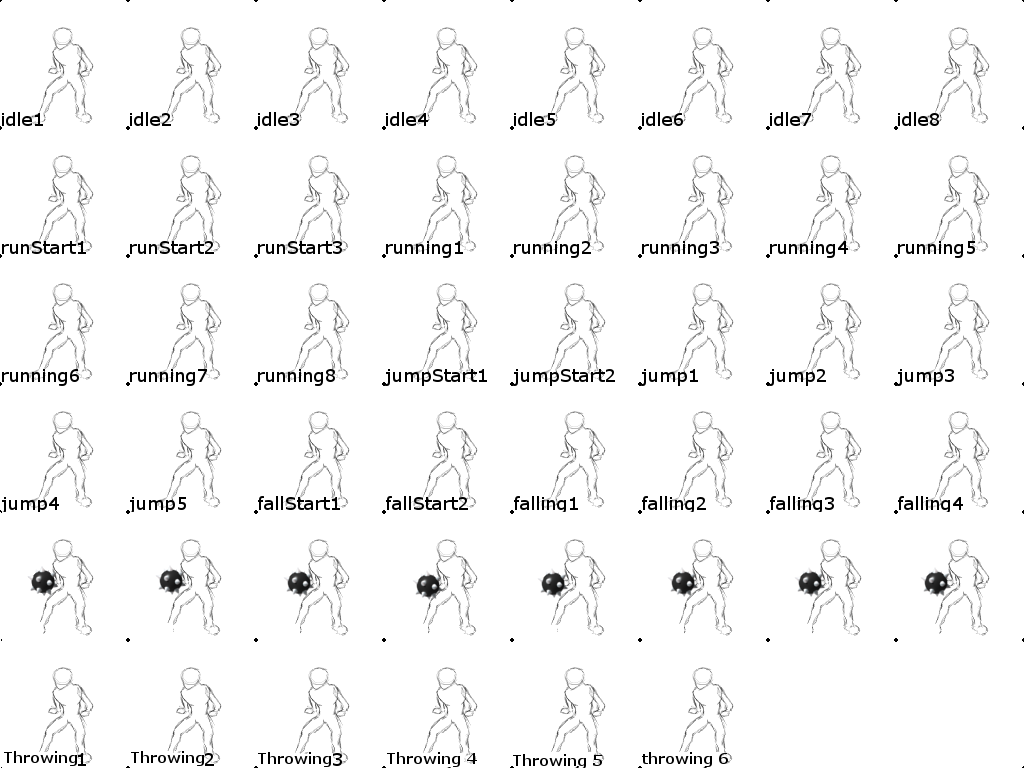
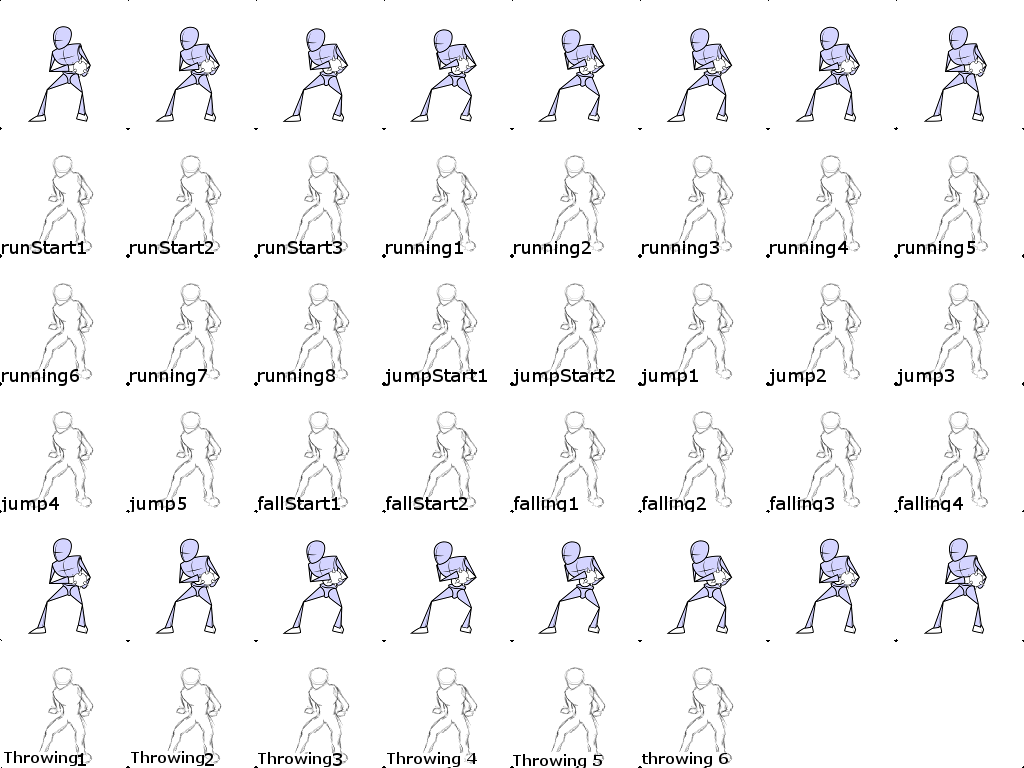
New idle sprites.  Faster animation speed.
Added new sprites for idle and idle while holding a ball.  Decreased the time per frame down to 0.08 from 0.2

diff --git a/main.js b/main.js
@@ -74,14 +74,14 @@ var playerY = 0;
 
 function Player(game)   {
     //Loading Animations
-    this.idleAnimation = new Animation(ASSET_MANAGER.getAsset("./img/player.png"), 0, 0, 128, 128, 0.2, 8, true, false);
+    this.idleAnimation = new Animation(ASSET_MANAGER.getAsset("./img/player.png"), 0, 0, 128, 128, 0.08, 8, true, false);
     this.runAnimation = new Animation(ASSET_MANAGER.getAsset("./img/player.png"), 384, 128, 128, 128, 0.05, 8, true, false);
     this.runStartAnimation = new Animation(ASSET_MANAGER.getAsset("./img/player.png"), 0, 128, 128, 128, 0.2, 3, false, false);
     this.jumpAnimation = new Animation(ASSET_MANAGER.getAsset("./img/player.png"), 640, 256, 128, 128, 0.1, 5, false, false);
     this.jumpStartAnimation = new Animation(ASSET_MANAGER.getAsset("./img/player.png"), 384, 256, 128, 128, 0.05, 2, false, false);
     this.fallAnimation = new Animation(ASSET_MANAGER.getAsset("./img/player.png"), 512, 384, 128, 128, 0.2, 4, true, false);
     this.fallStartAnimation = new Animation(ASSET_MANAGER.getAsset("./img/player.png"), 256, 384, 128, 128, 0.05, 2, false, false);
-    this.ballAnimation = new Animation(ASSET_MANAGER.getAsset("./img/player.png"),0, 512, 128, 128, 0.2, 8, true, false);  // payer has ball
+    this.ballAnimation = new Animation(ASSET_MANAGER.getAsset("./img/player.png"),0, 512, 128, 128, 0.08, 8, true, false);  // payer has ball
     this.throwAnimation = new Animation(ASSET_MANAGER.getAsset("./img/player.png"), 0, 640, 128, 128, 0.2, 6, false, false);
 
     this.jumpingState = 0; // 0 is on the ground, 1 is starting to jump, 2 is rising, 3 is beginning to fall, 4 is falling.  Has priority over running.
